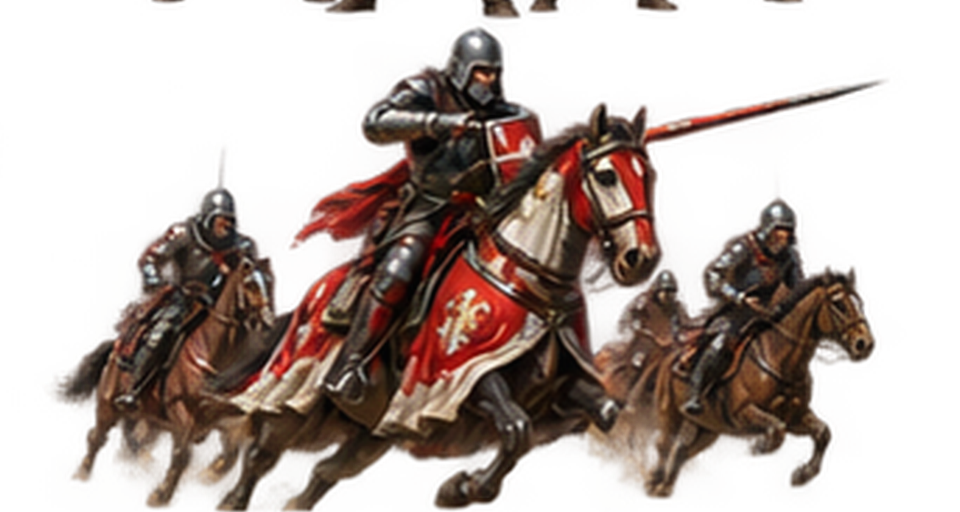
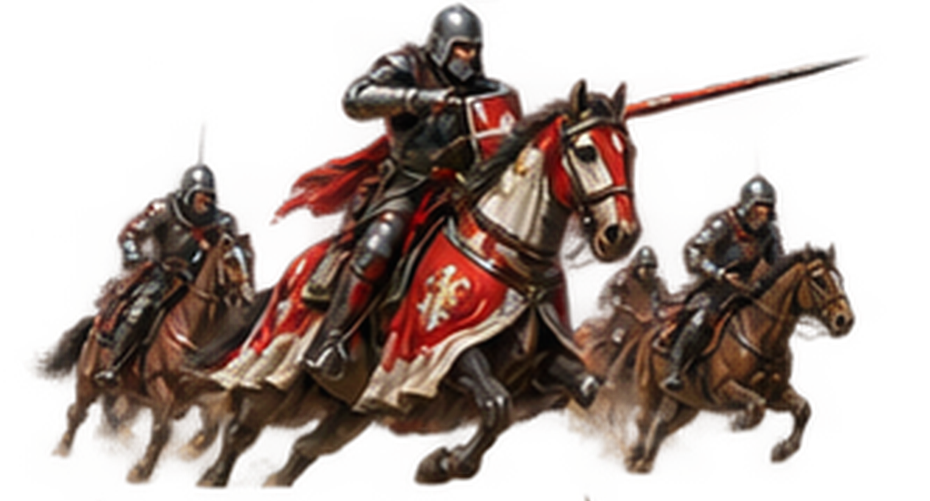
fix(cards): correct non-uniform grid crop bleed and restore gradient backdrop
The source sheet's tile boundaries were not perfectly uniform (row/col
sizes varied by tens of pixels), so the initial fixed-stride crop bled
into neighboring tiles (feet/weapon tips from one card appearing at the
edge of another). Re-cropped all 25 cards using boundaries detected from
the sheet's actual near-transparent gutters between tiles.

Also restore the per-unit-type themed gradient backdrop behind
illustrated PNG art (previously fully replaced), so illustrated cards
keep the same visual framing as the SVG-emblem cards instead of a hard
transparent-PNG edge against the card body.

Added scripts/crop-card-sheet.py as a reusable, documented tool for
cropping future card-art sheets with the same gutter-detection approach.

diff --git a/components/cards/TradingCard.tsx b/components/cards/TradingCard.tsx
@@ -1,5 +1,6 @@
 import { UnitCardTemplate, EffectiveCard, Rank, UnitType } from '@/lib/cards/types'
 import { UnitArt } from './unit-art'
+import { UNIT_ART_THEME } from '@/lib/cards/unit-art-theme'
 import { hasIllustratedArt, illustratedArtSrc } from '@/lib/cards/illustrated-art'
 
 const UNIT_TYPE_LABELS: Record<UnitType, string> = {
@@ -92,15 +93,27 @@ export function TradingCard({
     >
       <div className="relative h-[38%] shrink-0">
         {hasIllustratedArt(template.id) ? (
-          // eslint-disable-next-line @next/next/no-img-element -- many cards
-          // render at once in grids; plain <img> avoids next/image's
-          // per-instance lazy-load/placeholder overhead (same rationale as
-          // the structure icons under components/territories/icons).
-          <img
-            src={illustratedArtSrc(template.id)}
-            alt={template.name}
-            className="h-full w-full object-cover"
-          />
+          // Illustrated cards keep the same themed gradient backdrop as the
+          // SVG emblem cards (so the panel never shows a hard-edged
+          // transparent PNG against the card body) and layer the artwork
+          // on top of it.
+          <div
+            className="w-full h-full"
+            style={{
+              background: `radial-gradient(ellipse at 50% 45%, ${UNIT_ART_THEME[template.unitType].gradientFrom} 0%, ${UNIT_ART_THEME[template.unitType].gradientTo} 100%)`,
+            }}
+          >
+            {/* eslint-disable-next-line @next/next/no-img-element -- many
+                cards render at once in grids; plain <img> avoids
+                next/image's per-instance lazy-load/placeholder overhead
+                (same rationale as the structure icons under
+                components/territories/icons). */}
+            <img
+              src={illustratedArtSrc(template.id)}
+              alt={template.name}
+              className="h-full w-full object-cover"
+            />
+          </div>
         ) : (
           <UnitArt unitType={template.unitType} variant={artVariant} />
         )}

diff --git a/scripts/crop-card-sheet.py b/scripts/crop-card-sheet.py
@@ -1,0 +1,135 @@
+"""
+Crop a grid-sheet PNG of illustrated unit-card artwork into individual
+per-card PNG files named by `card_templates.id`.
+
+Why this exists: source sheets exported from image-generation tools often
+do NOT have a perfectly uniform grid — tile widths/heights can vary by a
+few dozen pixels between rows/columns even when the "intended" size (e.g.
+960x512) is uniform. Naively slicing on a fixed stride crops into the
+neighboring tile and creates visible bleed (a foot/weapon tip from one
+card appearing at the edge of the next). This script detects the *actual*
+gutter (near-transparent boundary) between tiles instead of assuming a
+fixed stride, so each tile is cropped exactly on its real boundary.
+
+Requirements: source sheet must have a transparent (alpha ~0) background,
+with the actual illustration also mostly-transparent margins around it —
+detection works by finding rows/columns of near-zero non-transparent pixel
+counts near each expected boundary.
+
+Usage:
+    python scripts/crop-card-sheet.py <sheet.png> <rows> <cols> <names.json> [outdir]
+
+    <names.json> is a flat JSON array of `rows*cols` card ids (template ids),
+    in row-major reading order (left-to-right, top-to-bottom), matching how
+    the source sheet was laid out. Example for a 5x5 sheet:
+        ["lightCavalry-rare-04", "swordsmen-uncommon-08", ...]
+
+    [outdir] defaults to `public/cards/units`.
+
+Example (this project's 25-card sheet):
+    python scripts/crop-card-sheet.py karty1.png 5 5 card_ids.json
+
+After running, spot-check a few output files with the `view` tool —
+especially tiles adjacent to any row/column where the source art has large
+flowing elements (banners, spears, horse tails) that could shift the
+detected gutter — before trusting the whole batch.
+"""
+
+import json
+import os
+import sys
+
+import numpy as np
+from PIL import Image
+
+
+def find_best_gutter(counts: np.ndarray, lo: int, hi: int, thresh: int = 3) -> int:
+    """Find the boundary position within [lo, hi) with the longest run of
+    near-zero non-transparent pixel counts (the actual gutter between
+    tiles), instead of just the single lowest-count row/column (which can
+    be noisy). Falls back to the global minimum in the range if no run of
+    at least `thresh`-or-below values is found.
+    """
+    seg = counts[lo:hi]
+    runs = []
+    start = None
+    for i, v in enumerate(seg):
+        if v <= thresh:
+            if start is None:
+                start = i
+        else:
+            if start is not None:
+                runs.append((start, i - 1))
+                start = None
+    if start is not None:
+        runs.append((start, len(seg) - 1))
+
+    if not runs:
+        idx = int(np.argmin(seg))
+        return lo + idx
+
+    runs.sort(key=lambda r: r[1] - r[0], reverse=True)
+    a, b = runs[0]
+    return lo + (a + b) // 2
+
+
+def detect_boundaries(counts: np.ndarray, total: int, n_tiles: int, search_margin: int = 60) -> list:
+    """Detect n_tiles+1 boundary positions (0, b1, b2, ..., total) given the
+    expected *nominal* tile size (total / n_tiles), searching a window of
+    +/- search_margin px around each nominal boundary for the real gutter.
+    """
+    nominal = total / n_tiles
+    boundaries = [0]
+    for i in range(1, n_tiles):
+        expected = round(i * nominal)
+        lo = max(0, expected - search_margin)
+        hi = min(total, expected + search_margin)
+        boundaries.append(find_best_gutter(counts, lo, hi))
+    boundaries.append(total)
+    return boundaries
+
+
+def crop_sheet(sheet_path: str, n_rows: int, n_cols: int, names: list, outdir: str) -> None:
+    im = Image.open(sheet_path).convert('RGBA')
+    w, h = im.size
+    alpha = np.array(im.getchannel('A'))
+
+    row_nonzero = (alpha > 10).sum(axis=1)  # per row, across full width
+    col_nonzero = (alpha > 10).sum(axis=0)  # per column, across full height
+
+    row_bounds = detect_boundaries(row_nonzero, h, n_rows)
+    col_bounds = detect_boundaries(col_nonzero, w, n_cols)
+
+    print('Detected row boundaries:', row_bounds)
+    print('Detected col boundaries:', col_bounds)
+
+    os.makedirs(outdir, exist_ok=True)
+    if len(names) != n_rows * n_cols:
+        raise ValueError(f'Expected {n_rows * n_cols} names, got {len(names)}')
+
+    idx = 0
+    for r in range(n_rows):
+        for c in range(n_cols):
+            name = names[idx]
+            idx += 1
+            crop = im.crop((col_bounds[c], row_bounds[r], col_bounds[c + 1], row_bounds[r + 1]))
+            out_path = os.path.join(outdir, f'{name}.png')
+            crop.save(out_path)
+            print(f'  wrote {out_path} ({crop.size[0]}x{crop.size[1]})')
+
+
+if __name__ == '__main__':
+    if len(sys.argv) < 5:
+        print(__doc__)
+        sys.exit(1)
+
+    sheet_path = sys.argv[1]
+    n_rows = int(sys.argv[2])
+    n_cols = int(sys.argv[3])
+    names_path = sys.argv[4]
+    outdir = sys.argv[5] if len(sys.argv) > 5 else 'public/cards/units'
+
+    with open(names_path, 'r', encoding='utf-8') as f:
+        names = json.load(f)
+
+    crop_sheet(sheet_path, n_rows, n_cols, names, outdir)
